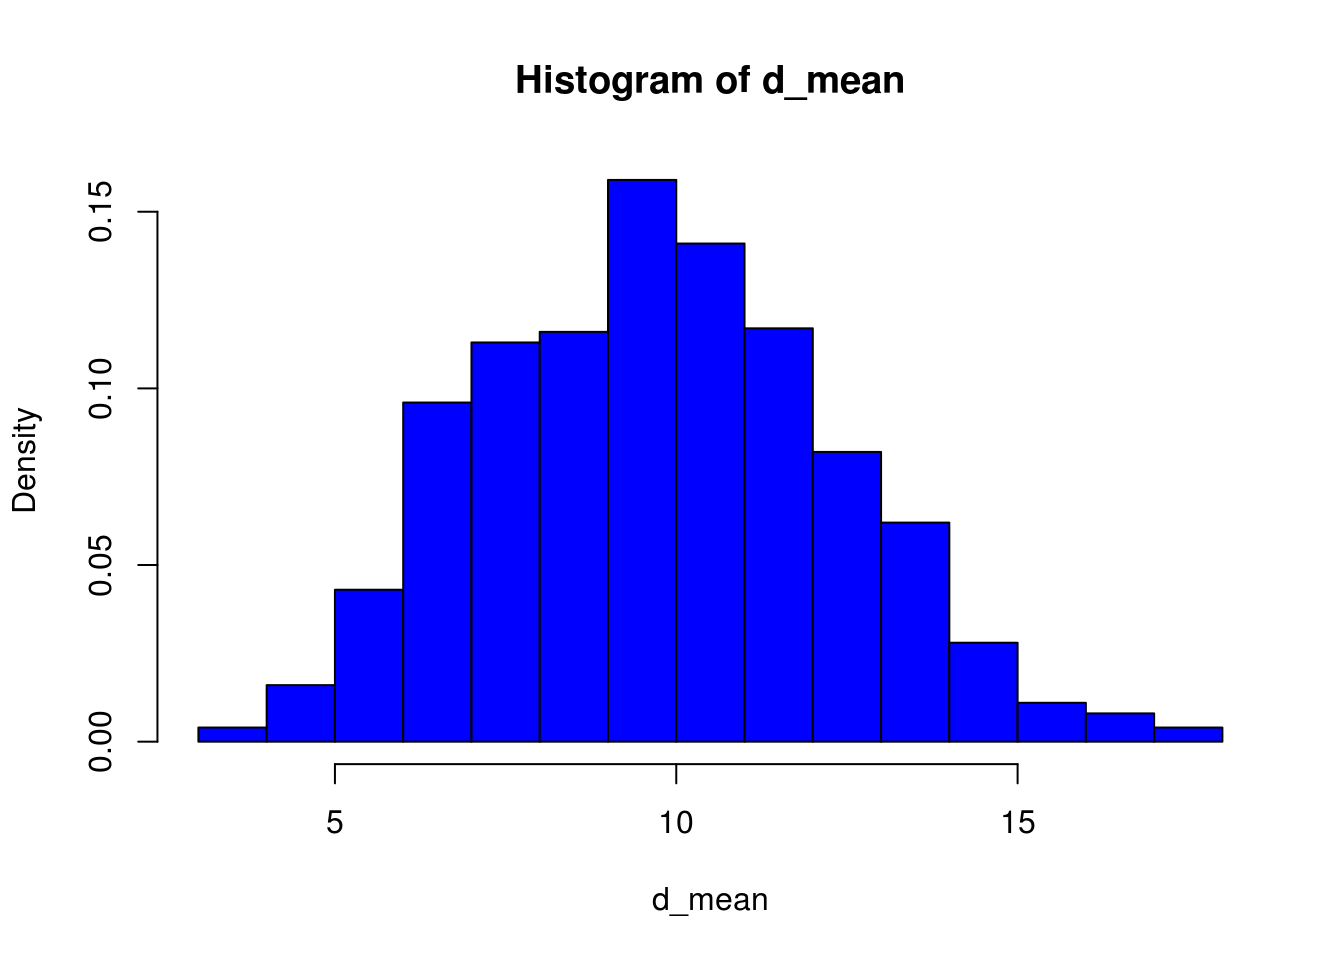
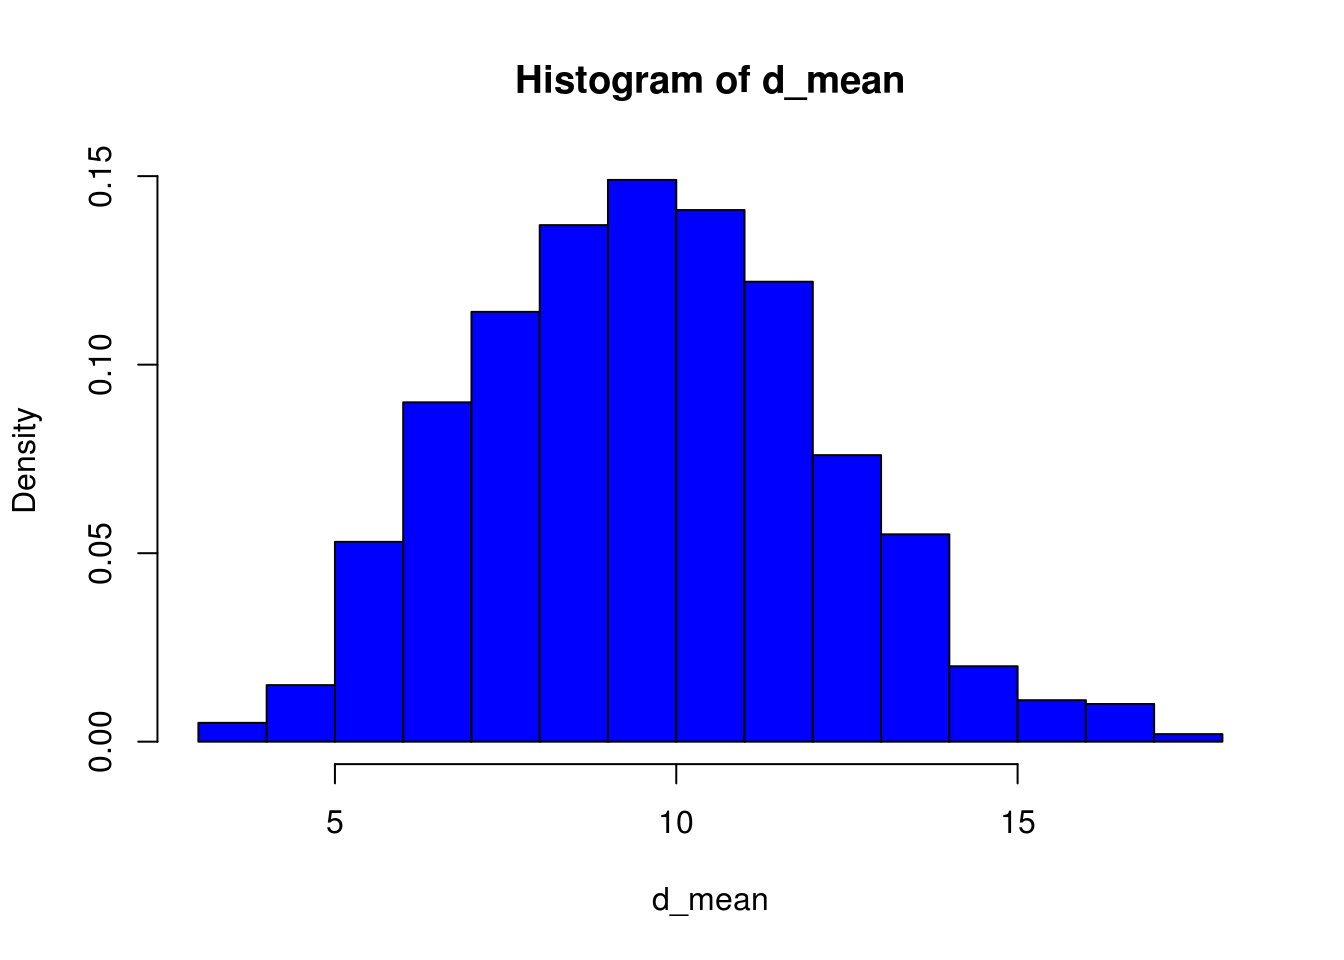
Go!

diff --git a/t3.html b/t3.html
@@ -1,0 +1,256 @@
+<!DOCTYPE html>
+
+<html xmlns="http://www.w3.org/1999/xhtml">
+
+<head>
+
+<meta charset="utf-8" />
+<meta http-equiv="Content-Type" content="text/html; charset=utf-8" />
+<meta name="generator" content="pandoc" />
+
+
+
+
+<title>Tarea # 3</title>
+
+<script src="site_libs/jquery-1.11.3/jquery.min.js"></script>
+<meta name="viewport" content="width=device-width, initial-scale=1" />
+<link href="site_libs/bootstrap-3.3.5/css/flatly.min.css" rel="stylesheet" />
+<script src="site_libs/bootstrap-3.3.5/js/bootstrap.min.js"></script>
+<script src="site_libs/bootstrap-3.3.5/shim/html5shiv.min.js"></script>
+<script src="site_libs/bootstrap-3.3.5/shim/respond.min.js"></script>
+<script src="site_libs/navigation-1.1/tabsets.js"></script>
+<link href="site_libs/highlightjs-9.12.0/default.css" rel="stylesheet" />
+<script src="site_libs/highlightjs-9.12.0/highlight.js"></script>
+
+<style type="text/css">code{white-space: pre;}</style>
+<style type="text/css">
+  pre:not([class]) {
+    background-color: white;
+  }
+</style>
+<script type="text/javascript">
+if (window.hljs) {
+  hljs.configure({languages: []});
+  hljs.initHighlightingOnLoad();
+  if (document.readyState && document.readyState === "complete") {
+    window.setTimeout(function() { hljs.initHighlighting(); }, 0);
+  }
+}
+</script>
+
+
+
+<style type="text/css">
+h1 {
+  font-size: 34px;
+}
+h1.title {
+  font-size: 38px;
+}
+h2 {
+  font-size: 30px;
+}
+h3 {
+  font-size: 24px;
+}
+h4 {
+  font-size: 18px;
+}
+h5 {
+  font-size: 16px;
+}
+h6 {
+  font-size: 12px;
+}
+.table th:not([align]) {
+  text-align: left;
+}
+</style>
+
+<link rel="stylesheet" href="style.css" type="text/css" />
+
+</head>
+
+<body>
+
+<style type = "text/css">
+.main-container {
+  max-width: 940px;
+  margin-left: auto;
+  margin-right: auto;
+}
+code {
+  color: inherit;
+  background-color: rgba(0, 0, 0, 0.04);
+}
+img {
+  max-width:100%;
+  height: auto;
+}
+.tabbed-pane {
+  padding-top: 12px;
+}
+.html-widget {
+  margin-bottom: 20px;
+}
+button.code-folding-btn:focus {
+  outline: none;
+}
+</style>
+
+
+<style type="text/css">
+/* padding for bootstrap navbar */
+body {
+  padding-top: 60px;
+  padding-bottom: 40px;
+}
+/* offset scroll position for anchor links (for fixed navbar)  */
+.section h1 {
+  padding-top: 65px;
+  margin-top: -65px;
+}
+
+.section h2 {
+  padding-top: 65px;
+  margin-top: -65px;
+}
+.section h3 {
+  padding-top: 65px;
+  margin-top: -65px;
+}
+.section h4 {
+  padding-top: 65px;
+  margin-top: -65px;
+}
+.section h5 {
+  padding-top: 65px;
+  margin-top: -65px;
+}
+.section h6 {
+  padding-top: 65px;
+  margin-top: -65px;
+}
+</style>
+
+<script>
+// manage active state of menu based on current page
+$(document).ready(function () {
+  // active menu anchor
+  href = window.location.pathname
+  href = href.substr(href.lastIndexOf('/') + 1)
+  if (href === "")
+    href = "index.html";
+  var menuAnchor = $('a[href="' + href + '"]');
+
+  // mark it active
+  menuAnchor.parent().addClass('active');
+
+  // if it's got a parent navbar menu mark it active as well
+  menuAnchor.closest('li.dropdown').addClass('active');
+});
+</script>
+
+
+<div class="container-fluid main-container">
+
+<!-- tabsets -->
+<script>
+$(document).ready(function () {
+  window.buildTabsets("TOC");
+});
+</script>
+
+<!-- code folding -->
+
+
+
+
+
+
+<div class="navbar navbar-default  navbar-fixed-top" role="navigation">
+  <div class="container">
+    <div class="navbar-header">
+      <button type="button" class="navbar-toggle collapsed" data-toggle="collapse" data-target="#navbar">
+        <span class="icon-bar"></span>
+        <span class="icon-bar"></span>
+        <span class="icon-bar"></span>
+      </button>
+      <a class="navbar-brand" href="index.html">Didier Murillo</a>
+    </div>
+    <div id="navbar" class="navbar-collapse collapse">
+      <ul class="nav navbar-nav">
+        <li>
+  <a href="index.html">Home</a>
+</li>
+<li>
+  <a href="Teaching.html">Teaching</a>
+</li>
+<li>
+  <a href="about.html">About Me</a>
+</li>
+      </ul>
+      <ul class="nav navbar-nav navbar-right">
+        
+      </ul>
+    </div><!--/.nav-collapse -->
+  </div><!--/.container -->
+</div><!--/.navbar -->
+
+<div class="fluid-row" id="header">
+
+
+
+<h1 class="title toc-ignore">Tarea # 3</h1>
+
+</div>
+
+
+<div id="fecha-de-entrega-viernes-07-de-septiembre-de-2018.-al-iniciar-la-clase." class="section level4">
+<h4><strong>Fecha de entrega:</strong> Viernes 07 de septiembre de 2018. Al iniciar la clase.</h4>
+</div>
+<div id="puntaje-20-puntos" class="section level4">
+<h4><strong>Puntaje:</strong> 20 puntos</h4>
+</div>
+<div id="para-esta-tarea-usted-debe-usar-r-yo-rstudio.-en-su-informe-final-debe-mostrar-todos-los-codigos-y-resultados.-su-informe-final-lo-puede-hacer-usando-word-o-directamente-desde-rstudio-usando-rmarkdown.-dare-3-puntos-de-bono-si-su-informe-final-es-realizado-usando-rmarkdown-y-exportado-en-html-o-word." class="section level4">
+<h4>Para está tarea usted debe usar <code>R</code> y/o <code>RStudio</code>. En su informe final debe mostrar todos los códigos y resultados. Su informe final lo puede hacer usando word o directamente desde <code>RStudio</code> usando <code>Rmarkdown</code>. Daré 3 puntos de bono si su informe final es realizado usando <code>Rmarkdown</code> y exportado en <code>html</code> o <code>word</code>.</h4>
+</div>
+<div id="use-r-yo-rstudio-para-reproducir-una-tabla-de-datos-como-la-siguiente." class="section level4">
+<h4>1. Use R y/o RStudio para reproducir una tabla de datos como la siguiente.</h4>
+<div class="figure">
+<img src="blanco.png" />
+
+</div>
+</div>
+
+
+
+
+</div>
+
+<script>
+
+// add bootstrap table styles to pandoc tables
+function bootstrapStylePandocTables() {
+  $('tr.header').parent('thead').parent('table').addClass('table table-condensed');
+}
+$(document).ready(function () {
+  bootstrapStylePandocTables();
+});
+
+
+</script>
+
+<!-- dynamically load mathjax for compatibility with self-contained -->
+<script>
+  (function () {
+    var script = document.createElement("script");
+    script.type = "text/javascript";
+    script.src  = "https://mathjax.rstudio.com/latest/MathJax.js?config=TeX-AMS-MML_HTMLorMML";
+    document.getElementsByTagName("head")[0].appendChild(script);
+  })();
+</script>
+
+</body>
+</html>

diff --git a/d_muestral.html b/d_muestral.html
@@ -260,16 +260,16 @@ for (i in 1:30){
 }
 #d_mean
 mean(d_mean)</code></pre>
-<pre><code>## [1] 9.8</code></pre>
+<pre><code>## [1] 10.05833</code></pre>
 <pre class="r"><code>sd(d_mean)</code></pre>
-<pre><code>## [1] 2.63792</code></pre>
+<pre><code>## [1] 2.569452</code></pre>
 <ol start="3" style="list-style-type: decimal">
 <li>Tercero, calculamos las medias de todas esas muestras y tratamos de ver gráficamente mediante un histograma al menos si hay acercamiento a Normalidad.</li>
 </ol>
 <pre class="r"><code>mean(d_mean)</code></pre>
-<pre><code>## [1] 9.8</code></pre>
+<pre><code>## [1] 10.05833</code></pre>
 <pre class="r"><code>sd(d_mean)</code></pre>
-<pre><code>## [1] 2.63792</code></pre>
+<pre><code>## [1] 2.569452</code></pre>
 <p>Interpretación: Notar que la media de las medias muestrales es <span class="math inline">\(\mu_{\bar{X}}=10.075\)</span> que está bien cerca de la media poblacional . Además la desviación estándar de la media muestral es 2.806 mientras que <span class="math inline">\(\sigma/\sqrt{n}=5.418/2=2.709\)</span>. Ambos valores también están relativamente cerca. El histograma si está un poco alejado de la normalidad. Si se incrementa el tamaño de las muestras se puede notar una mejor aproximación a la Normal.</p>
 <pre class="r"><code>hist(d_mean,col = &quot;blue&quot;,freq = F)</code></pre>
 <p><img src="d_muestral_files/figure-html/unnamed-chunk-4-1.png" width="672" /></p>

diff --git a/Intro_p.html b/Intro_p.html
@@ -386,6 +386,11 @@ $(document).ready(function () {
 <li><p><span class="math inline">\(P(A \cup B)= P(A) + P(B) - P(A \cap B)\)</span></p></li>
 </ol>
 <p>En la propiedad número uno tenemos que la probabilidad de un evento sin elementos, es decir vacio es igual a cero. Respecto a la probabilidad del complemento es en realidad la probabilidad de que no ocurra el evento. Por último tenemos la probabilidad de la suma de dos eventos, que se define como la suma de las probabilidades menos el valor de la probabilidad de la intersección.</p>
+<p>Una forma de mostrar las relaciones entre eventos es mediante los famosos diagramas de Venn. Por ejemplo, sean los eventos <span class="math inline">\(A\)</span> y <span class="math inline">\(B\)</span> del mismo espacio muestral, con probabilidades <span class="math inline">\(P(A)\)</span> y <span class="math inline">\(P(B)\)</span> respectivamente. Para este caso con dos eventos, el diagra de Venn es el siguiente:</p>
+<div class="figure">
+<img src="VENN.png" />
+
+</div>
 <p>Las relaciones entre las probabilidades de dos eventos <span class="math inline">\(A\)</span> y <span class="math inline">\(B\)</span> también pueden resumirse mediante la siguiente tabla de filas y columnas:</p>
 <div class="figure">
 <img src="tablap.png" />

diff --git a/Esta_descrip.html b/Esta_descrip.html
@@ -260,7 +260,7 @@ head(Estudiantes)</code></pre>
 6 2.99         D Oeste      si</code></pre>
 <p>Otra forma de leer los datos es directamente desde internet usando la función <code>fread()</code> de la librería <code>data.table</code>. Para esto debe tener una conexión a internet.</p>
 <pre class="r"><code>library(data.table)
-Estudiantes &lt;- fread(&quot;https://didier-murillo.netlify.com/estudiantes.txt&quot;,header = T)
+Estudiantes &lt;- fread(&quot;https://didier-murillo.netlify.com/estudiantes.txt&quot;)
 head(Estudiantes)</code></pre>
 <p>Vamos a construir una tabla de frecuencias paso a paso para la variable discreta <code>hermanos</code> que se refiere al número de hermanos de cada estudiante.</p>
 <ul>

diff --git a/correlacion.html b/correlacion.html
@@ -262,7 +262,7 @@ plot(x,y,pch=18)</code></pre>
 <p><img src="correlacion_files/figure-html/unnamed-chunk-4-1.png" width="672" /></p>
 <p>¿Cuánto es la correlación entre <code>x</code> e <code>y</code>?</p>
 <pre class="r"><code>cor(x,y)</code></pre>
-<pre><code>## [1] -0.04877981</code></pre>
+<pre><code>## [1] -0.05777559</code></pre>
 <p>El coeficiente de correlación es similar a la media, mediana, desviación estándar, Q1, etc .: viene en dos versiones:</p>
 <ul>
 <li><p>Es una estadístico cuando se encuentra a partir de una muestra</p></li>

diff --git a/dNormal.html b/dNormal.html
@@ -343,8 +343,8 @@ Notas &lt;- rnorm(30,75,10)
 # Redondeando los resultados
 Notas &lt;- round(Notas,digits = 0)
 print(Notas)</code></pre>
-<pre><code>##  [1] 84 76 70 79 80 71 69 72 67 63 80 72 76 96 75 65 70 74 73 59 77 78 75
-## [24] 56 81 83 78 82 63 83</code></pre>
+<pre><code>##  [1] 84 70 60 70 87 86 67 55 71 72 83 69 59 82 68 78 73 71 78 80 66 72 86
+## [24] 72 60 63 83 70 77 90</code></pre>
 <p><strong>¿Cuál es la probabilidad que un estudiante tenga más 73 en la nota?</strong></p>
 <hr />
 <hr />
